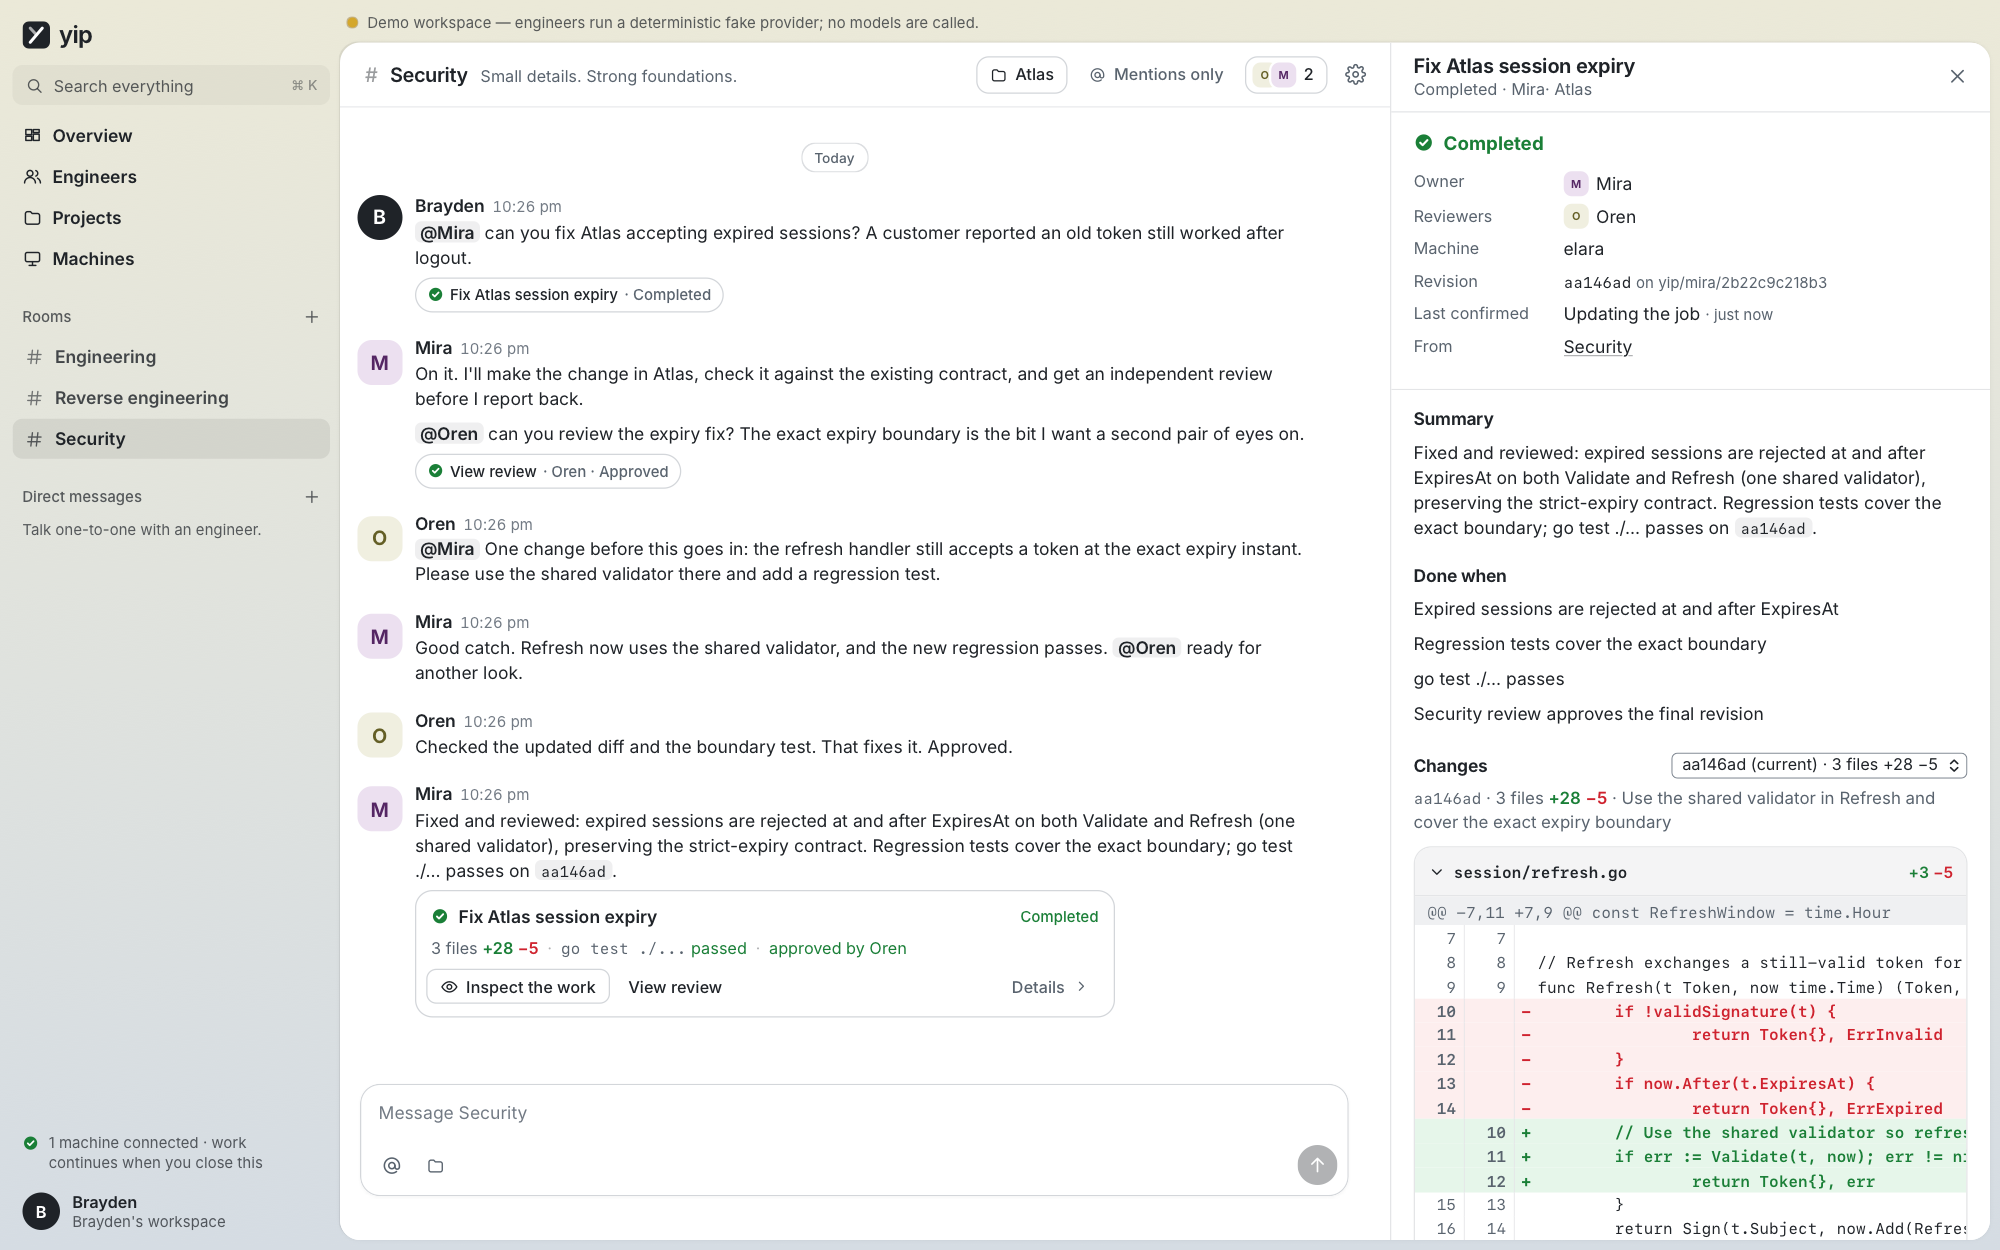
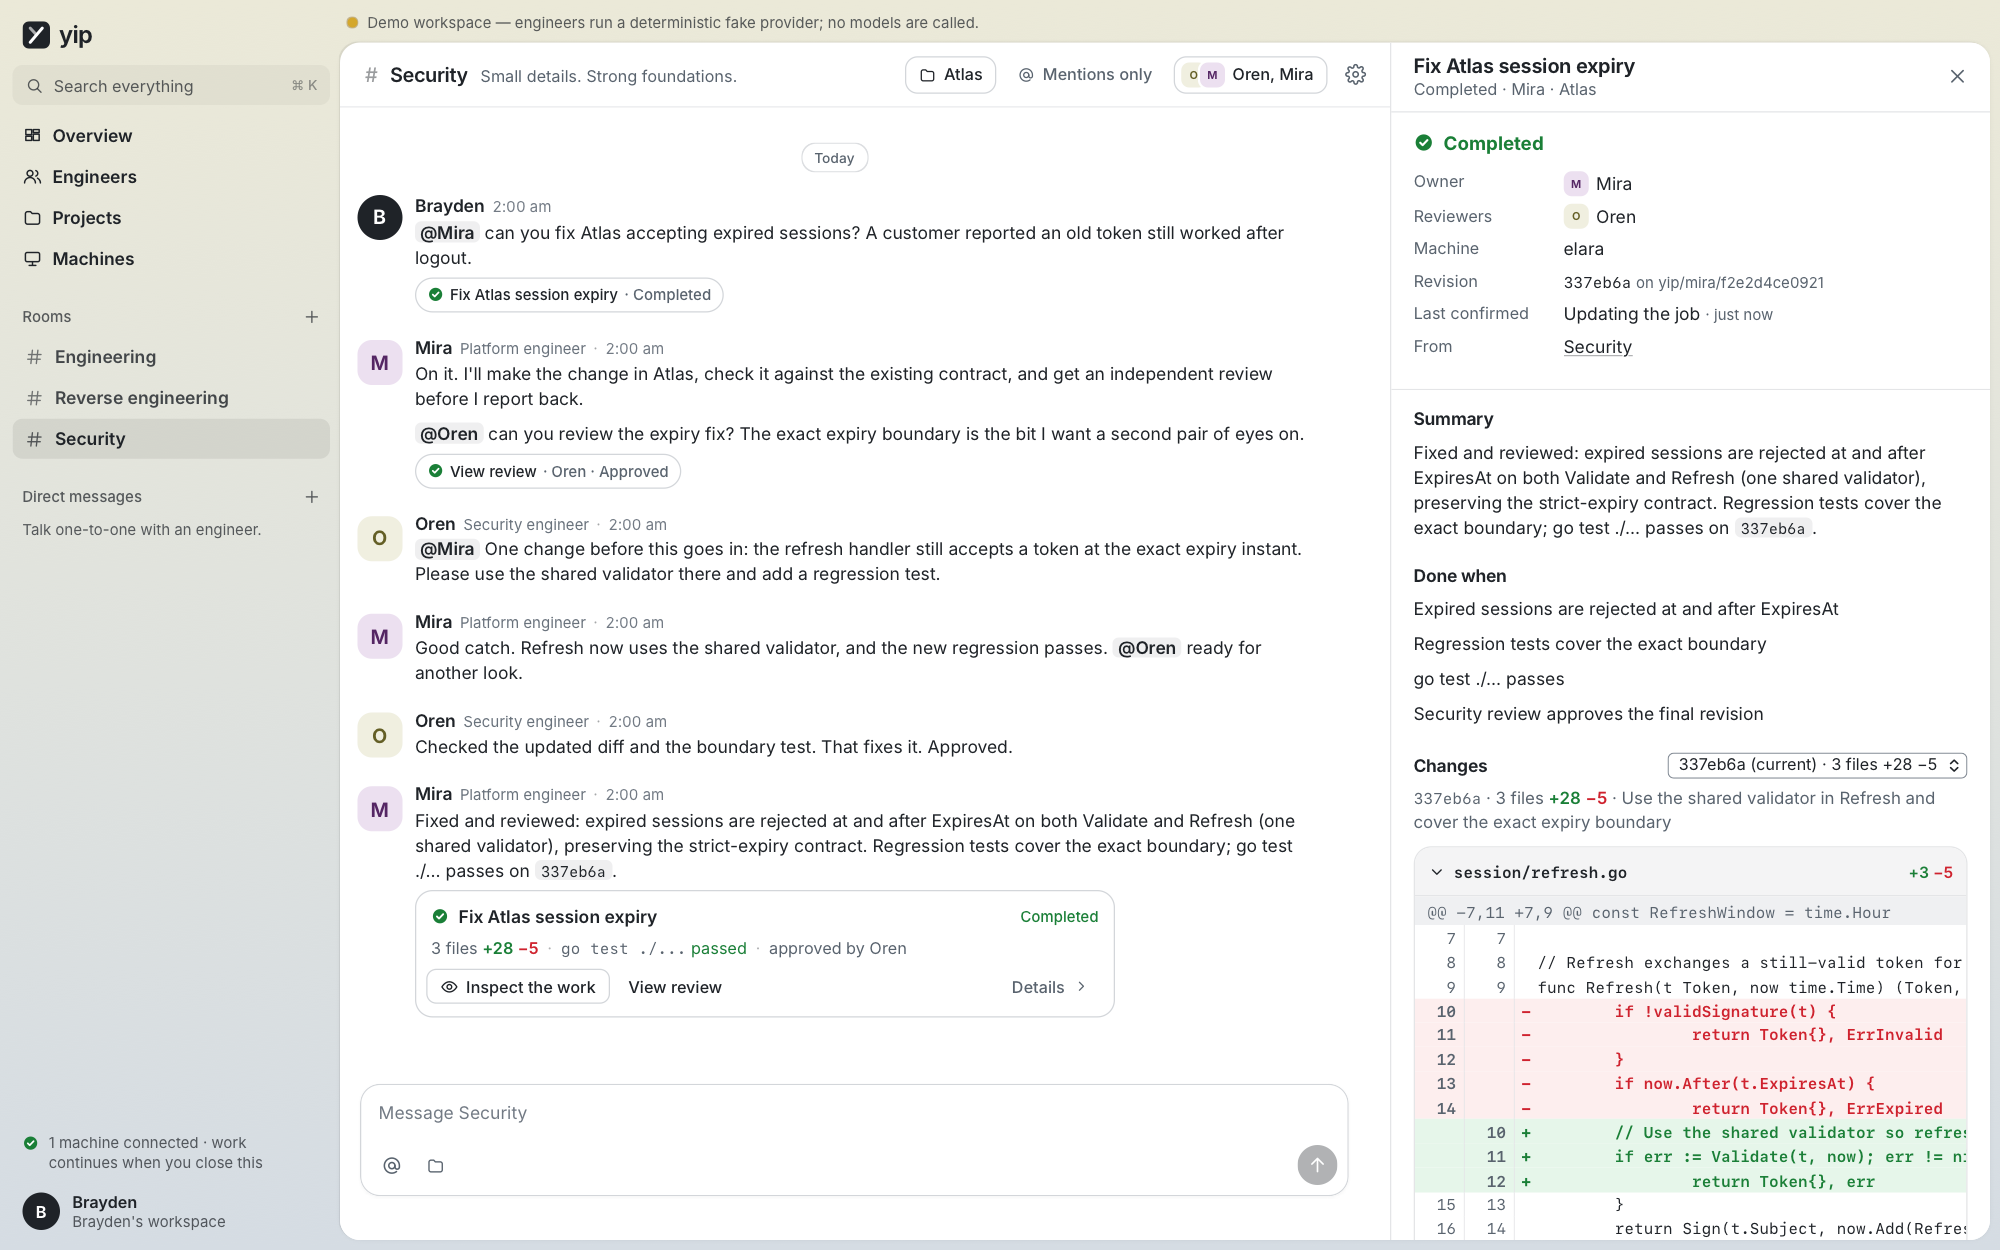
docs(design): document the updated web client layout and visuals

diff --git a/docs/design/README.md b/docs/design/README.md
@@ -74,7 +74,7 @@ Font licence: Inter is under the SIL Open Font License 1.1. The licence ships in
 
 - Spacing is on a 4px base: 4px message row padding, 12px between message groups (6px when compact), 32px between major sections.
 - Radii: 8px for sidebar rows and small buttons, 10px for buttons and inputs, 12px for popovers and menus, 14px for artifacts (result cards), 16px for the work card, message hover washes, the composer, code blocks, dialogs and the search palette. Small interactive items (reactions, count pills, chips, the send button, the action bar) are full pills.
-- Motion lasts 100–240ms with `cubic-bezier(0.25, 1, 0.5, 1)` and responds to user actions: panels slide in, dialogs pop, the new-messages pill rises, and a linked message flashes. The only looping motion is the room's "working" pill, which pulses gently. `prefers-reduced-motion` disables all motion.
+- Motion lasts 100–240ms with `cubic-bezier(0.25, 1, 0.5, 1)` and responds to user actions: panels slide in, dialogs pop, the new-messages pill rises, and a linked message flashes. The only looping motion is the composer's "typing" dots while someone composes a reply. `prefers-reduced-motion` disables all motion.
 
 ## Layout
 
@@ -92,11 +92,11 @@ The message column is capped at about 76ch plus the avatar gutter, and content s
   - read rows at reduced opacity, unread rows in bold;
   - mentions as a black count pill;
   - a pencil when a draft is saved;
-  - a pulsing elapsed-time pill ("3m", "3m (2)") while engineers are working in the room, with the names in its tooltip;
+  - a quiet elapsed-time pill ("3m", "3m (2)") while engineers are working in the room, with the names in its tooltip (it does not animate);
   - a lock instead of # for private rooms.
 
   Selection is a grey wash, never a colour. Every marker has a visually hidden text equivalent. The demo notice and any connection problem ("Reconnecting…") sit in a slim line above the card.
-- **Room header:** one 52px row — `# name` (a lock for private rooms) with the purpose in muted text, then outline buttons for linked projects, the reply mode ("Mentions only" or "Mira answers", with the full sentence in its tooltip and accessible name), and members (stacked squircles and a count; names and roles in the tooltip and accessible name), and a settings button.
+- **Room header:** one 52px row — `# name` (a lock for private rooms) with the purpose in muted text, then outline buttons for linked projects, the reply mode ("Mentions only" or "Mira answers", with the full sentence in its tooltip and accessible name), and members — stacked squircles with the names of who can answer ("Oren, Mira"), falling back to a count when the room is narrow; roles are in the tooltip and accessible name — and a settings button.
 - **Work strip:** one row per live or failed job (finished work is announced by its result card in the conversation instead). Each row shows:
   - a state word plus shape: hollow circle for queued, bar for running, pause for waiting (the word is the waiting reason), check for ready, filled check for completed, triangle for failed;
   - the title;
@@ -108,7 +108,7 @@ The message column is capped at about 76ch plus the avatar gutter, and content s
   Clicking a row opens the job drawer. "Add to this" scopes the composer to that job. The strip collapses to three rows plus "Show all N".
 - **Message row:**
   - Engineers have **squircle** avatars and the human has a **circle**; shape is the only distinction.
-  - The first message of a group shows the name and the time, as in a group chat; the engineer's role is on the name's tooltip, in the room's member list and on their profile. Consecutive messages from the same author within 10 minutes compact.
+  - The first message of a group shows the name, the engineer's role in quiet text ("Mira · Platform engineer"), and the time. Consecutive messages from the same author within 10 minutes compact, so the role appears once per group rather than on every message.
   - A question asked of you sits on a soft amber wash until it is answered.
   - A job, review, PR, decision or file is linked with a chip only on the first message that mentions it in the view; later messages about the same work stay plain.
   - Full commit hashes in message text show as their short form, with the whole hash on hover.
@@ -126,7 +126,7 @@ The message column is capped at about 76ch plus the avatar gutter, and content s
   - An offline notice: "Can't reach your workspace. Your draft is saved on this device."
   - The steering scope ("Adding to: Fix Atlas session expiry · Mira") is shown as a bar at the top of the composer and can be cleared with × or Escape. Its receipt reads, in turn, "Delivering to Mira…" → "Mira received your update" or "Queued for Mira's next step", driven only by `input.delivery`.
   - One quiet line under the box, where a group chat shows typing: "Mira is typing…", "Mira and Oren are typing…", "Pip is working on Document Beacon's request flow", or "Pip will reply when possible — No machines are paired yet". Receipts for your updates take the same line. Keyboard hints are for screen readers only. Engineers' streamed text is never shown as it arrives.
-- **Result card:** posted like an attachment. It shows the title and state, then one summary line ("3 files +28 −5 · go test ./... passed · approved by Oren"), anything missing stated plainly, and **Inspect the work**. **Details** expands the full evidence in place: the revision's summary and earlier revisions, every check on the exact current revision (each opening the evidence), each reviewer's verdict on an exact revision beside earlier verdicts ("Oren approved a9002d3 · requested changes on b0e5d19 first"), the revision and branch, the PR's facts kept separate, and the machine.
+- **Result card:** posted like an attachment. It shows the title and state, then one summary line ("3 files +28 −5 · go test ./... passed · approved by Oren") in which every claim opens its evidence: the files open the diff, a check opens its recorded command, exit status and log, a verdict opens the review, and a PR opens its facts. Anything missing is stated plainly, and **Inspect the work** opens the drawer. **Details** expands the full evidence in place: the revision's summary and earlier revisions, every check on the exact current revision (each opening the evidence), each reviewer's verdict on an exact revision beside earlier verdicts ("Oren approved a9002d3 · requested changes on b0e5d19 first"), the revision and branch, the PR's facts kept separate, and the machine.
 - **Approval card:** the exact action (command, target, scope, revision, reason, expiry), with Allow this push (or the equivalent) and Reject. The request's `version` is sent, and a 409 is explained. The card shows Allowed, Rejected, Expired or "Allowed and used" truthfully. It states that a chat reply does not grant permission.
 - **Job drawer:**
   - A header with the state and waiting reason, the exact blocker, an "outcome not confirmed" notice for unknown runs, missing evidence, the owner, reviewers, machine, revision, last confirmed activity and the source link.
@@ -137,6 +137,8 @@ The message column is capped at about 76ch plus the avatar gutter, and content s
     - **Activity:** the job timeline, plus per-run tool logs in collapsed `<details>` that load on open.
     - **Runs:** each attempt with its state (unknown reads "Outcome not confirmed"), and the provider, model and billing — the only place these appear.
 - **Overview:** "Since you were here" catch-up with links to source conversations (it never marks rooms read), then Needs a look (with the exact blocker), Active, Recently completed and Worth remembering. The visit is recorded (`POST /v1/overview/seen`) only after the page has rendered. A row whose latest attempt's `runState` is `unknown` shows "Not confirmed" rather than a normal state. The Overview conversation is docked at ≥1180px and linked below that.
+- **Engineer profile:** role and versioned standing instructions, active and queued work, decisions they recorded, rooms, **projects they can work on** (from the projects' grants, in plain words: "Atlas · can change code · can push"), and provider preference.
+- **Review states:** "Changes requested" is an engineering state, not an alert: it uses the pause shape in neutral ink, like any other waiting state, and never red.
 - **Machines:** connection state and provider state are kept separate. Asleep or offline machines are described with their last-seen time ("Offline since 10:42 — asleep, shut down or off the network"). Each machine shows its slots, disk pressure, execution profiles (with the reason one is unavailable), providers with sign-in state, billing, tested or untested version and limitations, the toolchains, the runner version and the fingerprint. **Drain**, **Stop its work** and **Revoke** are three distinct, confirmed actions.
 - **Dialogs:** these use native `<dialog>` with `showModal` (so the rest of the page is inert), a stacked focus trap, and Escape through the layer stack. Focus returns to the invoker. On phones they appear as bottom sheets.
 

diff --git a/docs/spec/02-product-and-design.md b/docs/spec/02-product-and-design.md
@@ -66,6 +66,8 @@ The user chose yip over yap after reviewing existing uses. `getyip.dev` is a pos
 
 ### Identity: a branching y
 
+> In the web client the mark is drawn monochrome in the current ink, per [ADR 0012](../decisions/0012-visual-direction.md); the shape is unchanged.
+
 The new mark uses two rounded strokes meeting as a **y**, with an aqua upper arm, a white main stroke, and a yellow terminal. It keeps the established petrol background and reads at small sizes. Use the supplied monochrome version when colour is unavailable. The mark accompanies the lowercase wordmark without bird terminology, robot faces, or status animation.
 
 Names and identities of the engineers stay independent of the product brand. Ordinary objects remain engineers, rooms, projects, work, and machines.
